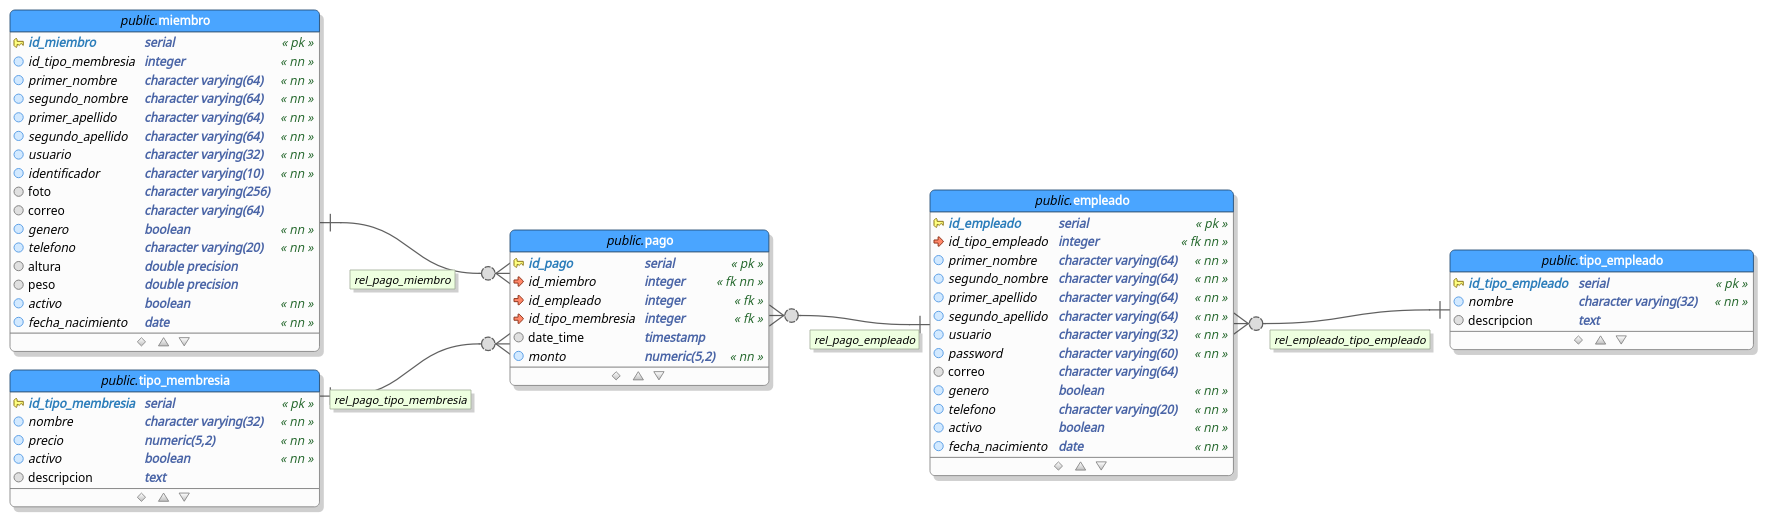
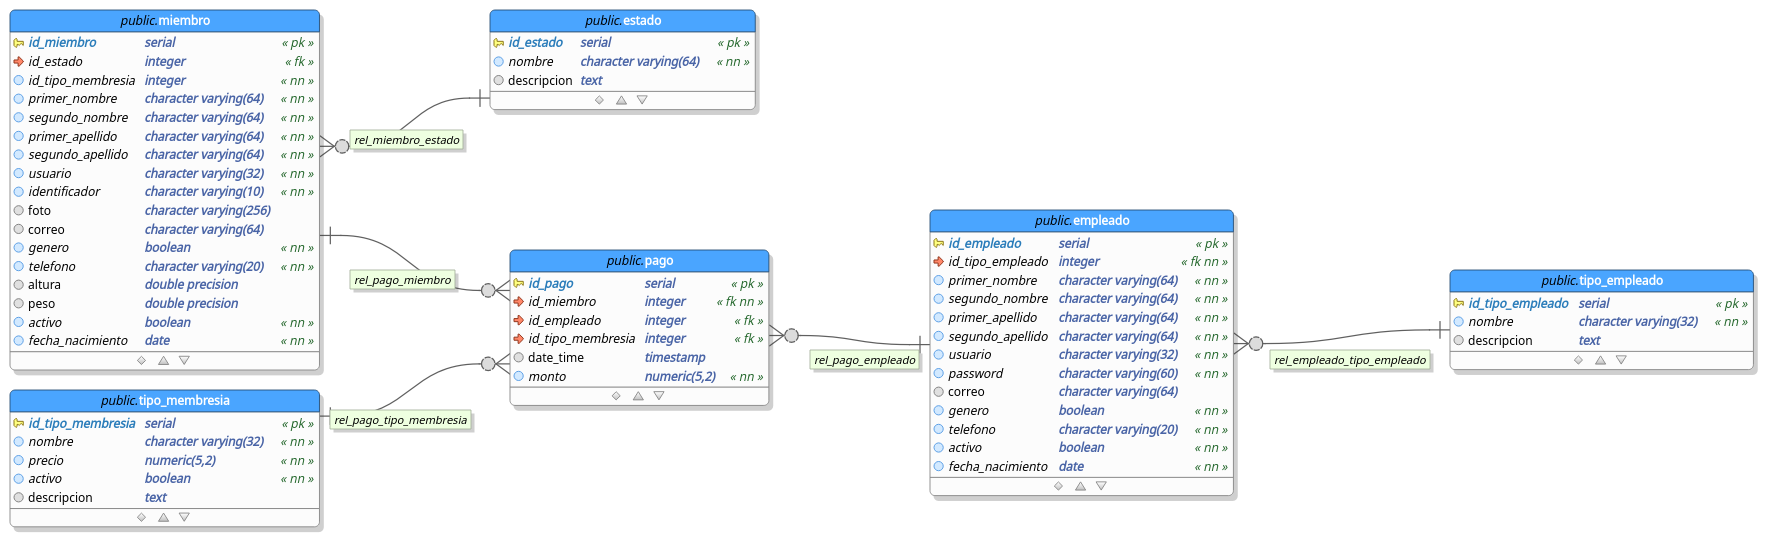
Cambios a la base de datos

Changed region(s): [[0.0, 0.0, 0.9949, 0.979], [0.2487, 0.0, 0.4353, 0.2141], [0.684, 0.7342, 0.7151, 0.7648]]

diff --git a/README.md b/README.md
@@ -16,3 +16,8 @@ administrar sus miembros, además de gestionar los pagos que realizan para membr
 1. Mensual
 2. Quincenal
 3. Semanal
+
+## Estados
+1. Activo
+2. Pendiente
+3. Inactivo
